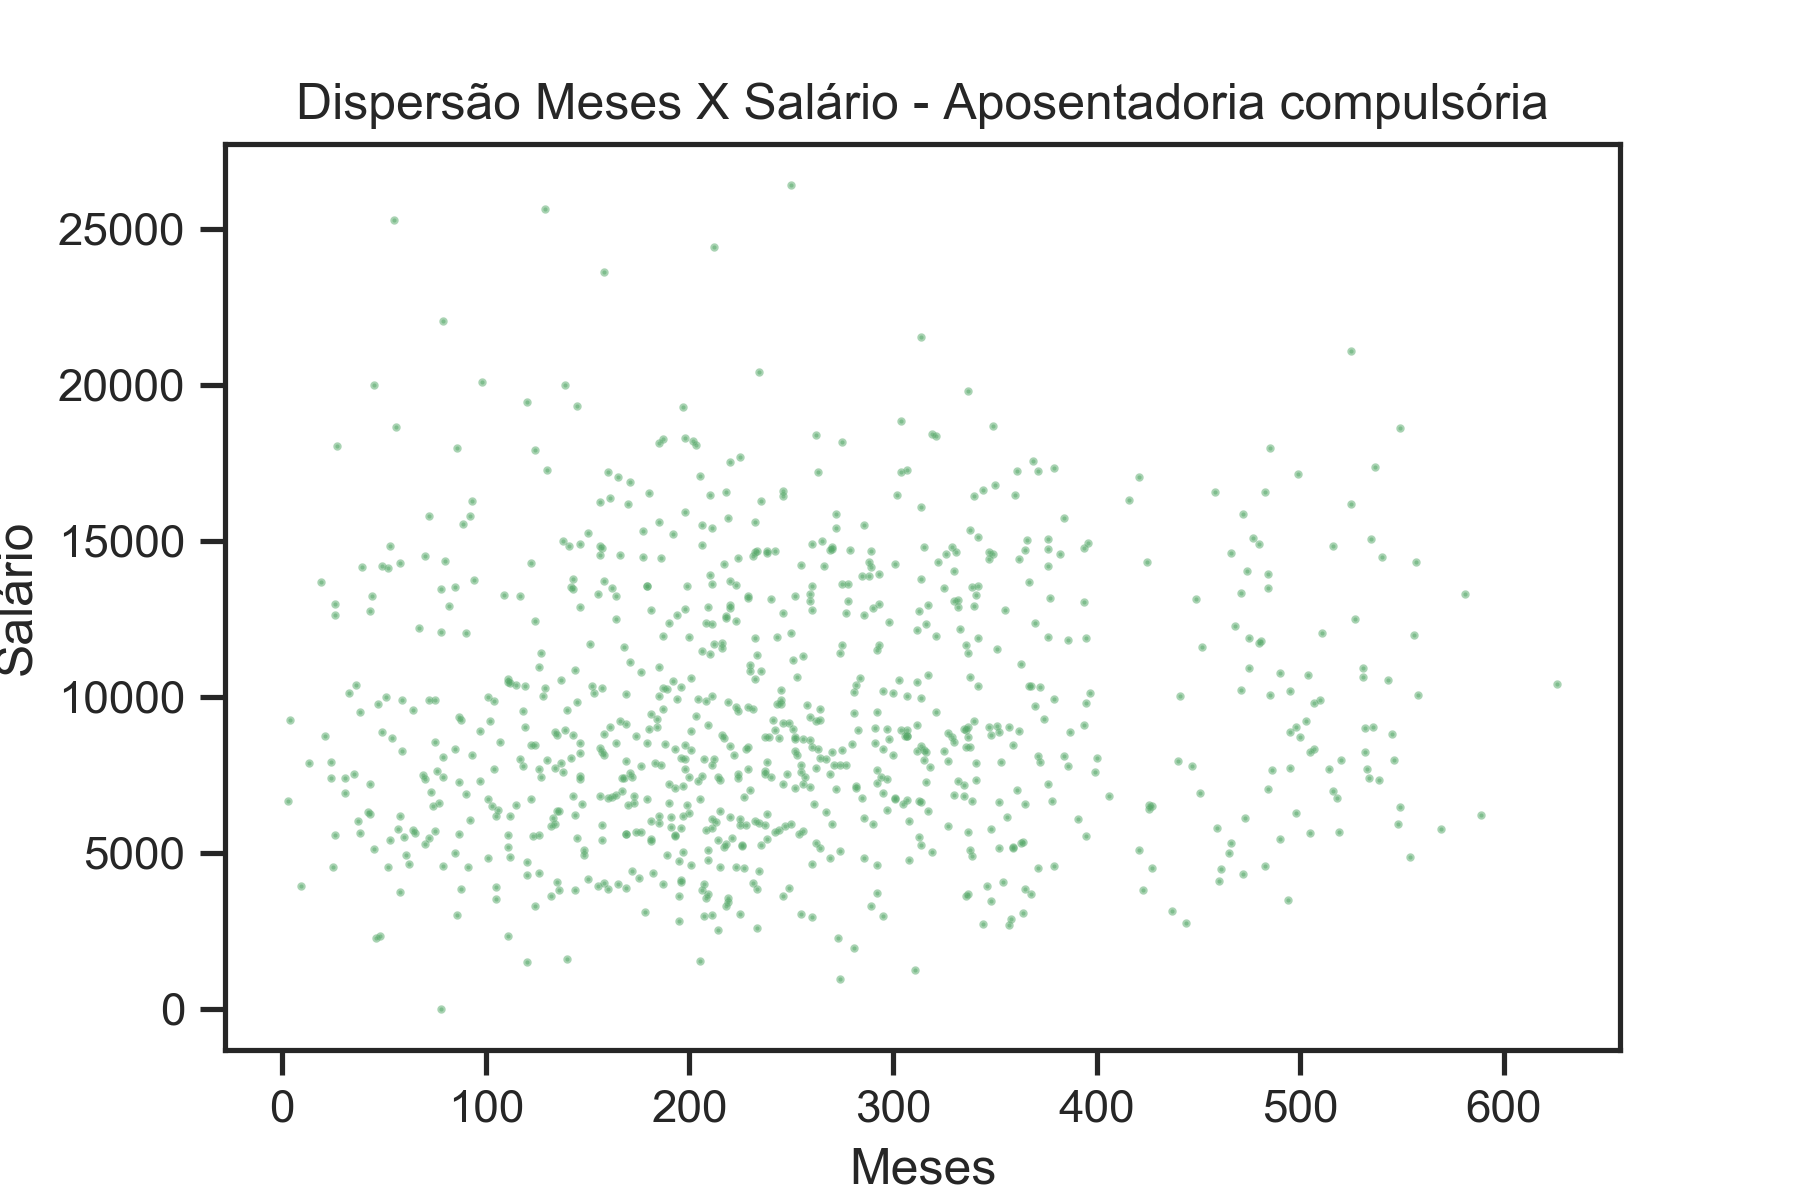
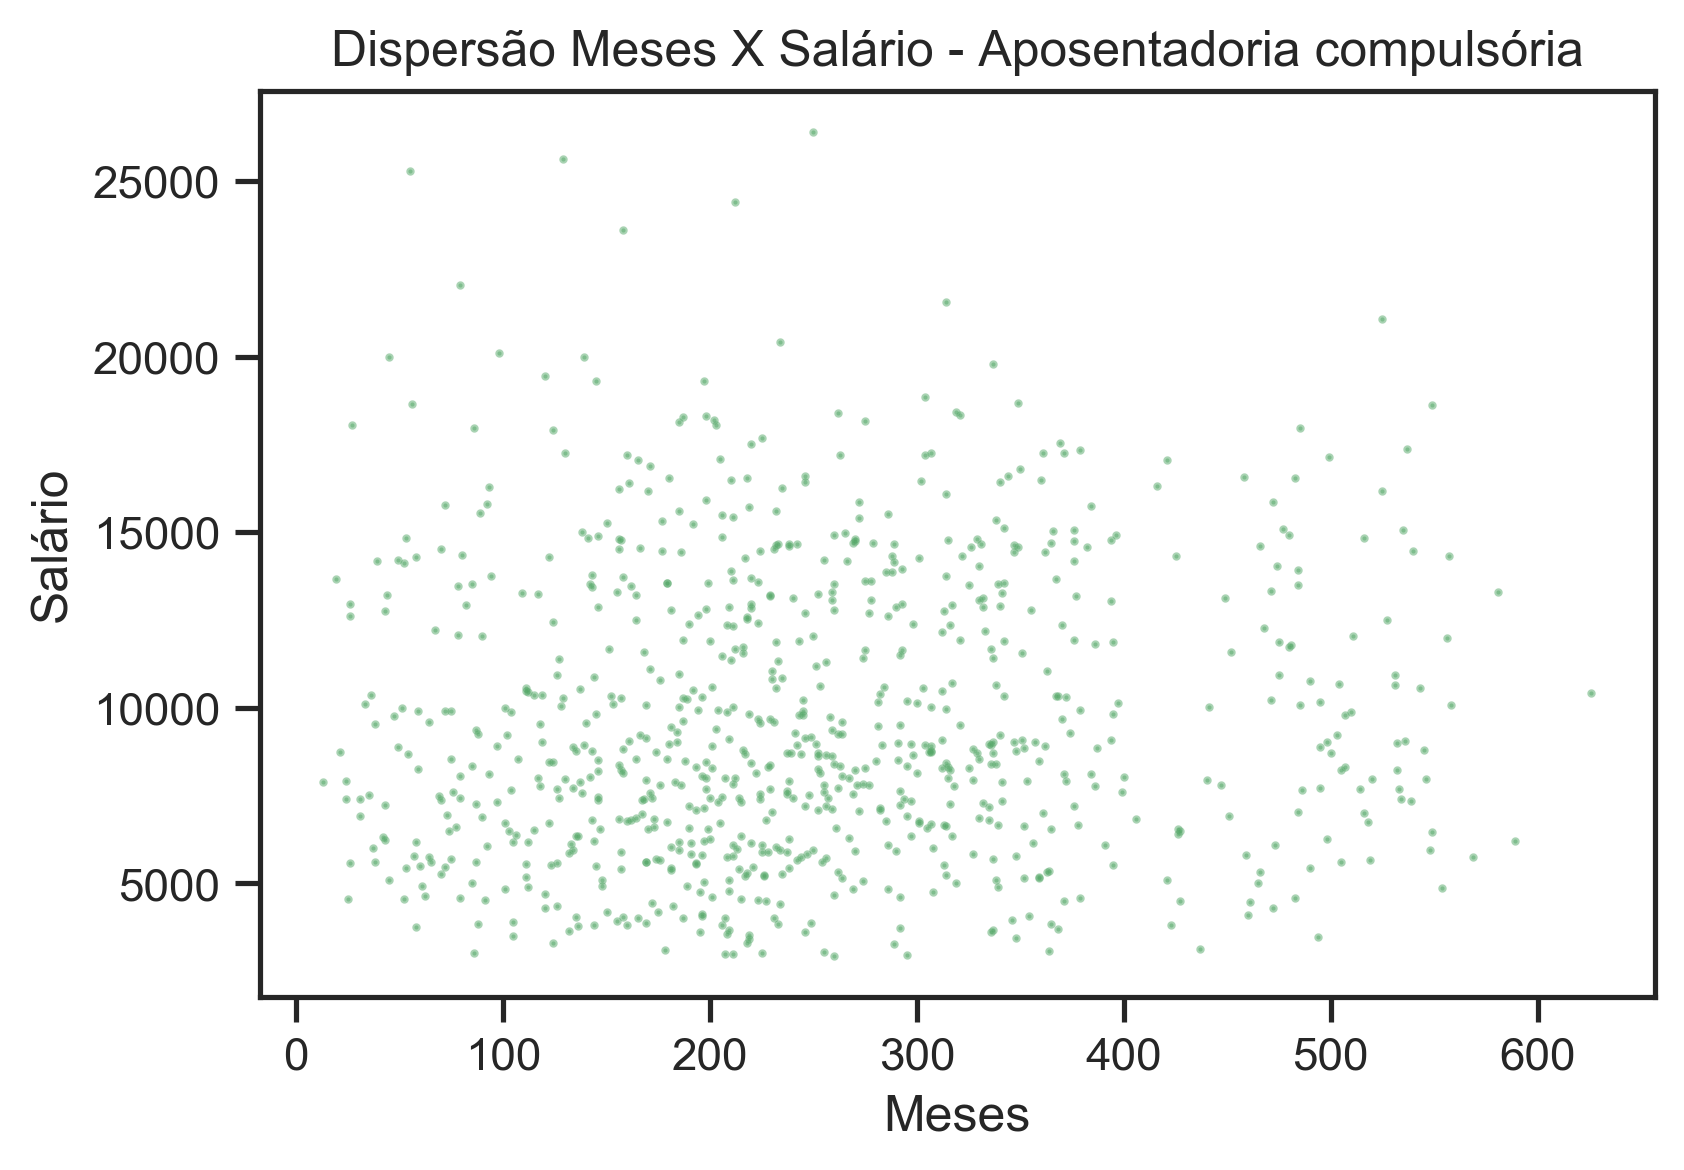
Add statiscs model

diff --git a/statistics/scatterplots.py b/statistics/scatterplots.py
@@ -12,59 +12,124 @@ import seaborn as sns
 
 data =  pd.read_csv('../datasets/dataset-docentes/docentes_dataset.csv', index_col=False, sep=';')
 
-print( data[["Meses", "Salario"]].describe() )
+''' SITUACAO '''
 
+# Scatter plots by class
 df_abono = data[data['Situacao'] == 1]
 df_avoluntario = data[data['Situacao'] == 2]
 df_acompulsorio = data[data['Situacao'] == 3]
 
-# Scatter plots by class
 plt.scatter(df_abono["Meses"], df_abono["Salario"], s=1, c='b', alpha=0.5)
 plt.title('Dispersão Meses X Salário - Abono permanência')
 plt.xlabel('Meses')
 plt.ylabel('Salário')
-plt.savefig("graphics/dipersao_ap.png", dpi=300)
+plt.savefig("graphics/dipersao_ap.png", bbox_inches='tight', dpi=300)
 plt.show()
 
 plt.scatter(df_avoluntario["Meses"], df_avoluntario["Salario"], s=1, c='r', alpha=0.5)
 plt.title('Dispersão Meses X Salário - Aposentadoria voluntária')
 plt.xlabel('Meses')
 plt.ylabel('Salário')
-plt.savefig("graphics/dipersao_av.png", dpi=300)
+plt.savefig("graphics/dipersao_av.png", bbox_inches='tight', dpi=300)
 plt.show()
 
 plt.scatter(df_acompulsorio["Meses"], df_acompulsorio["Salario"], s=1, c='g', alpha=0.5)
 plt.title('Dispersão Meses X Salário - Aposentadoria compulsória')
 plt.xlabel('Meses')
 plt.ylabel('Salário')
-plt.savefig("graphics/dipersao_ac.png", dpi=300)
+plt.savefig("graphics/dipersao_ac.png", bbox_inches='tight', dpi=300)
 plt.show()
 
+# Scatterplots plots by class without outliers
+df_abono60 = df_abono[df_abono['Salario'] <60000]
 
-# Scatterplots without outliers
-df_abono = df_abono[df_abono['Salario'] <60000]
-
-plt.scatter(df_abono["Meses"], df_abono["Salario"], s=1, c='b', alpha=0.5)
+plt.scatter(df_abono60["Meses"], df_abono60["Salario"], s=1, c='b', alpha=0.5)
 plt.title('Dispersão Meses X Salário - Abono permanência, com salário < 60000')
 plt.xlabel('Meses')
 plt.ylabel('Salário')
-plt.savefig("graphics/dipersao_ap60.png", dpi=300)
+plt.savefig("graphics/dipersao_ap60.png", bbox_inches='tight', dpi=300)
 plt.show()
 
-df_avoluntario = df_avoluntario[df_avoluntario['Salario'] <50000]
+df_avoluntario50 = df_avoluntario[df_avoluntario['Salario'] <50000]
 
-plt.scatter(df_avoluntario["Meses"], df_avoluntario["Salario"], s=1, c='r', alpha=0.5)
+plt.scatter(df_avoluntario50["Meses"], df_avoluntario50["Salario"], s=1, c='r', alpha=0.5)
 plt.title('Dispersão Meses X Salário - Aposentadoria voluntária, com salário < 50000')
 plt.xlabel('Meses')
 plt.ylabel('Salário')
-plt.savefig("graphics/dipersao_av.png", dpi=300)
+plt.savefig("graphics/dipersao_av50.png", bbox_inches='tight', dpi=300)
 plt.show()
 
-data60 = data[data['Salario'] <60000]
+''' CARGO '''
 
-datacov = data.iloc[:, 2:5]
-cov = datacov.cov()
-print(cov)
+# Scatter plots by Cargo
+df_prof_bas_tec = data[data['Cargo'] == "PROFESSOR ENS BASICO TECN TECNOLOGICO"]
+df_prof_superior = data[data['Cargo'] == "PROFESSOR DO MAGISTERIO SUPERIOR"]
 
+plt.scatter(df_prof_bas_tec["Meses"], df_prof_bas_tec["Salario"], s=1, c='b', alpha=0.5)
+plt.title('Dispersão Meses X Salário - Professores Ens Básico Tecn Tecnológico')
+plt.xlabel('Meses')
+plt.ylabel('Salário')
+plt.savefig("graphics/dipersao_prof_bas_tec.png", bbox_inches='tight', dpi=300)
+plt.show()
+
+plt.scatter(df_prof_superior["Meses"], df_prof_superior["Salario"], s=1, c='r', alpha=0.5)
+plt.title('Dispersão Meses X Salário - Professores do Magistério Superior')
+plt.xlabel('Meses')
+plt.ylabel('Salário')
+plt.savefig("graphics/dipersao_prof_superior.png", bbox_inches='tight', dpi=300)
+plt.show()
+
+# Scatterplots plots by class without outliers
+df_prof_bas_tec50 = df_prof_bas_tec[df_prof_bas_tec['Salario'] <60000]
+
+plt.scatter(df_prof_bas_tec50["Meses"], df_prof_bas_tec50["Salario"], s=1, c='b', alpha=0.5)
+plt.title('Dispersão Meses X Salário - Professores Ens Básico Tecn Tecnológico, com salário < 50000')
+plt.xlabel('Meses')
+plt.ylabel('Salário')
+plt.savefig("graphics/dipersao_prof_bas_tec50.png", bbox_inches='tight', dpi=300)
+plt.show()
+
+df_prof_superior60 = df_prof_superior[df_prof_superior['Salario'] <60000]
+
+plt.scatter(df_prof_superior60["Meses"], df_prof_superior60["Salario"], s=1, c='r', alpha=0.5)
+plt.title('Dispersão Meses X Salário - Professores do Magistério Superior, com salário < 60000')
+plt.xlabel('Meses')
+plt.ylabel('Salário')
+plt.savefig("graphics/dipersao_prof_superior60.png", bbox_inches='tight', dpi=300)
+plt.show()
+
+# All scatterplots
+data60 = data[data['Salario'] < 60000]
+data60sctt_prof = data60.iloc[:, 0:4]
 sns.set(style="ticks")
-sns.pairplot(datacov, hue="Situacao")
+sns.pairplot(data60sctt_prof, hue="Cargo")
+
+data60sctt_sit = data60.iloc[:, 2:5]
+sns.set(style="ticks")
+sns.pairplot(data60sctt_sit, hue="Situacao")
+
+'''CORRELATION AND SUMMARY '''
+
+print("\n\nMatriz de correlação dos dados")
+data_numeric = data.iloc[:, 2:4]
+corr = data_numeric.corr()
+print(corr)
+
+print("\n\nEstatísticas dos dados")
+print( data[["Meses", "Salario"]].describe() )
+
+print("\n\nEstatísticas da Classe Abono Permanência")
+print( df_abono[["Meses", "Salario"]].describe() )
+print("\n\nEstatísticas da Classe Aposentadoria Voluntária")
+print( df_avoluntario[["Meses", "Salario"]].describe() )
+print("\n\nEstatísticas da Classe Aposentadoria Compulsória")
+print( df_acompulsorio[["Meses", "Salario"]].describe() )
+
+print("\n\nEstatísticas dos Professores de Ens Básico Tecn Tecnológico")
+print( df_prof_bas_tec[["Meses", "Salario"]].describe() )
+print("\n\nEstatísticas dos Professores do Magistério Superior")
+print( df_prof_superior[["Meses", "Salario"]].describe() )
+
+
+
+
